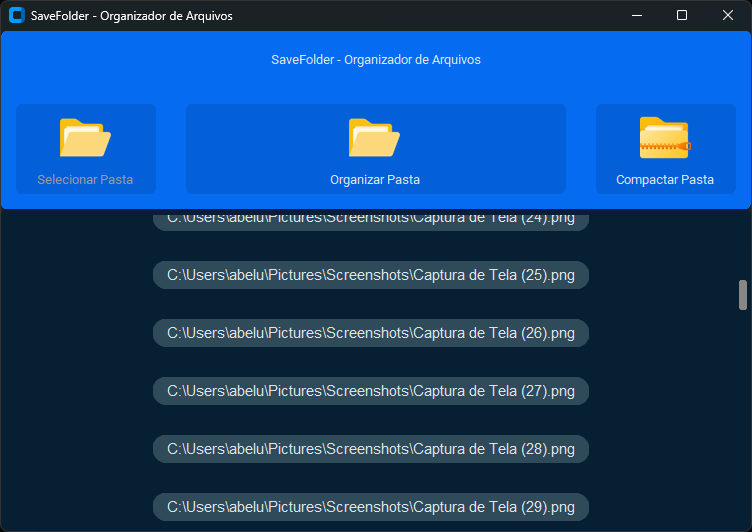
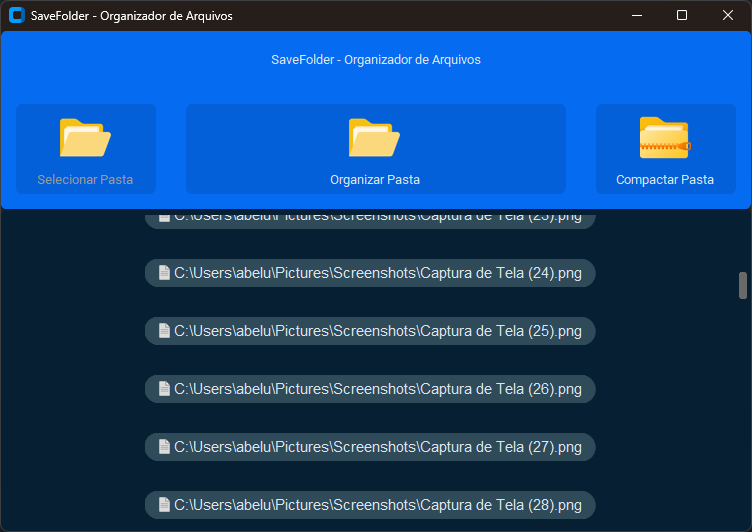
add ícone para os arquivos

diff --git a/main.py b/main.py
@@ -78,8 +78,10 @@ class App:
 
         for index, file in enumerate(self.list_files):
             label= CTkLabel(self.MAIN_FRAME,
-                            text=str(file),
+                            text= " " + str(file),
+                            image= TXT_FILE_ICON,
                             fg_color="#2f4a59",
+                            compound= "left",
                             corner_radius= 25,
                             font=("Arial", 15))
             label.grid(row= index,

diff --git a/src/assets/__init__.py b/src/assets/__init__.py
@@ -12,7 +12,12 @@ def create_image(image_path):
     else:
         size = img.size
     return CTkImage(light_image=img, size=size)
- 
+
 #IMGs
 FOLDER_ICON = create_image(ASSETS_PATH / "images/folder-icon.png")
 ZIP_FOLDER_ICON = create_image(ASSETS_PATH / "images/zip-folder-icon.png")
+
+#Icon files
+TXT_FILE_ICON = create_image(ASSETS_PATH / "images/txt_icon.png")
+DOCX_FILE_ICON = create_image(ASSETS_PATH / "images/docx_icon.png")
+PDF_FILE_ICON = create_image(ASSETS_PATH / "images/pdf_icon.png")
